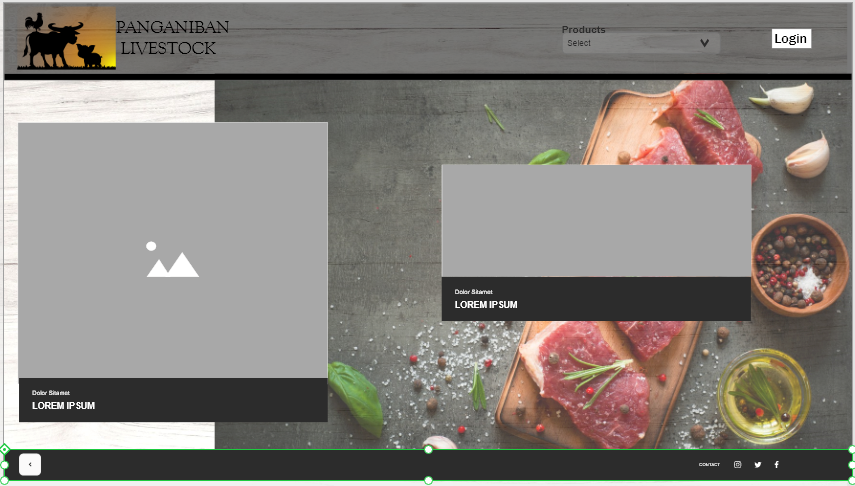
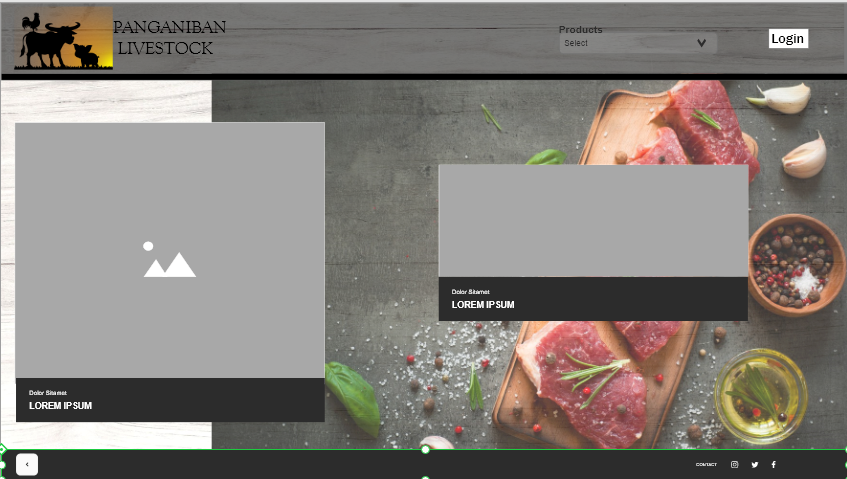
Added footer

diff --git a/style.css b/style.css
@@ -1,5 +1,6 @@
 html {
-  height: 100%;
+  height: 100%;  margin: 0;
+  padding: 0;
 }
 body {
   background: #eceff1;
@@ -10,6 +11,8 @@ body {
   min-height: 100%;
   display: flex;
   flex-direction: column;
+  background-image: url("assets/BG1.jpg");
+  background-size: cover;
 }
 @media (max-width: 600px) {
   body {
@@ -20,9 +23,10 @@ body {
 header {
   width: 100vw;
   height: 135px;
-  border-bottom: solid 12px #000;
+  border-bottom: solid 10px #000;
   font-family: "Poppins";
   background-color: #808080;
+  background-color: rgba(94, 94, 94, 0.6);
 }
 
 header .inner {
@@ -37,6 +41,9 @@ header .logo {
   height: 100%;
   float: left;
   margin-left: 20px;
+  padding:0;
+  margin:0;
+  padding-left: 10px;
 }
 header .logo div {
   height: 100%;
@@ -48,20 +55,23 @@ header .logo img {
   margin-top: 5px; /* Optical alignment of the logo */
 }
 header label {
+  width: 100%;
   padding: 0%;
   display: inline-block;
-  font-size: larger
+  font-size: larger;
+  margin: 0px;
 }
 header select {
-  height: 30px;
-  width: 80%;
+  height: 35px;
+  width: 75%;
   display: inline-block;
-  background-color: rgba(255,255,255,.1);
+  background-color: rgba(255,255,255,.3);
   border: solid 1px black;
   border-radius: 5px;
   font-size: larger
 }
 header .button {
+  height: 35px;
   background-color: #fff; /* This HEX is the color of the button */
   color: #000;
   border-radius: 4px;
@@ -70,7 +80,6 @@ header .button {
   top: 50%;
   -ms-transform: translateY(-50%);
   transform: translateY(-50%);
-  margin-left: 20px;
 	border: none;
 }
 
@@ -83,11 +92,7 @@ header .button:hover {
   top: 50%;
   transform: translate(-50%, -50%);
 }
-.content-container {
-  flex-grow: 1;
-}
 .side {
-  background-image: url("assets/BG1.jpg");
   background-size: cover;
   flex-grow: 1;
 }
@@ -98,6 +103,10 @@ header .button:hover {
 }
 .imgcontainer {
   text-align: center;
+}  
+.flex-container {
+  display: flex;
+  flex-direction: row;
 }
 /* The Modal (background) */
 .modal {
@@ -171,6 +180,7 @@ input[type="password"] {
 .animate {
   -webkit-animation: animatezoom 0.6s;
   animation: animatezoom 0.6s;
+
 }
 
 @-webkit-keyframes animatezoom {
@@ -189,4 +199,8 @@ input[type="password"] {
   to {
     transform: scale(1);
   }
+}
+footer{
+  background-color: black;
+  height: 60px;
 }

diff --git a/index.php b/index.php
@@ -13,7 +13,7 @@ if (isset($_SESSION["id"])) {
     <!-- bootstrap -->
     <link href="https://cdn.jsdelivr.net/npm/bootstrap@5.1.3/dist/css/bootstrap.min.css" rel="stylesheet" integrity="sha384-1BmE4kWBq78iYhFldvKuhfTAU6auU8tT94WrHftjDbrCEXSU1oBoqyl2QvZ6jIW3" crossorigin="anonymous" />
     <!-- icon -->
-    <link rel="shortcut icon" type="image/jpg" href="assets/logo.png" />
+    <link rel="shortcut icon" type="image/jpg" href="assets/logo_circ.png" />
     <!-- jquery -->
     <script src="https://ajax.googleapis.com/ajax/libs/jquery/3.3.1/jquery.min.js"></script>
 
@@ -22,38 +22,37 @@ if (isset($_SESSION["id"])) {
     <link rel="stylesheet" href="style.css" />
 </head>
 
-<body >
-    <header>
+<body>
+    <header class="flex-container">
         <!-- Header -->
         <div class="container-fluid">
             <div class="row">
                 <div style="background-color: #000;height:50%;"></div>
-                <div class="logo " style="width: 62.25%;">
-                    <a href="index.php"> <img src="assets/logo.png" alt="Panganiban Livestock" /></a>
+                <div class="logo col-7">
+                    <a href="index.php"> <img src="assets/logo.png" alt="Jocel Livestock Trading" /></a>
                 </div>
-                <div class="col-2" style="display: table;width: 20.75%;" >
-                    <div style="display: table-cell; vertical-align: middle;">
-                        <label for="category">Products</label>
-                        <select name="category" id="category">
-                            <option value="" disabled selected>Select </option>
-                            <option value="pork">Pork</option>
-                            <option value="beef">Beef</option>
-                            <option value="chicken">Chicken</option>
+                <div class="col-5 row" style="padding:0;margin:0">
+                    <div class="col-2"></div>
+                    <div class="col-7" style="display: table;">
+                        <div style="display: table-cell; vertical-align: middle;">
+                            <label for="category">Products</label>
+                            <select name="category" id="category">
+                                <option value="" disabled selected>Select </option>
+                                <option value="pork">Pork</option>
+                                <option value="beef">Beef</option>
+                                <option value="chicken">Chicken</option>
 
-                        </select>
+                            </select>
+                        </div>
+                    </div>
+                    <div class="col-3" style="position: relative;">
+                        <button type="button" class="button" onclick="document.getElementById('id01').style.display='block'">
+                            LOGIN
+                        </button>
 
                     </div>
-
-                </div>
-                <div class="col" style="position: relative;">
-                    <button type="button" class="button" onclick="document.getElementById('id01').style.display='block'">
-                        LOGIN
-                    </button>
-
                 </div>
             </div>
-
-
         </div>
     </header>
 
@@ -93,14 +92,16 @@ if (isset($_SESSION["id"])) {
     </div>
 
     <!-- The bodyyy -->
-    <div class="row content-container">
-            <div class="col-3 side" >
-            </div>
-            <div class="col-9 content">
-            </div>
+    <div class="row container-fluid flex-grow-1" style="padding:0;margin:0">
+        <div class="col-3 side">
+        </div>
+        <div class="col-9 content">
+        </div>
     </div>
-    
-
+    <!-- footer -->
+    <footer class="row" style="padding: 0;margin: 0;">
+        <div class="col-9">hello</div>
+    </footer>
 
 
     <script>
